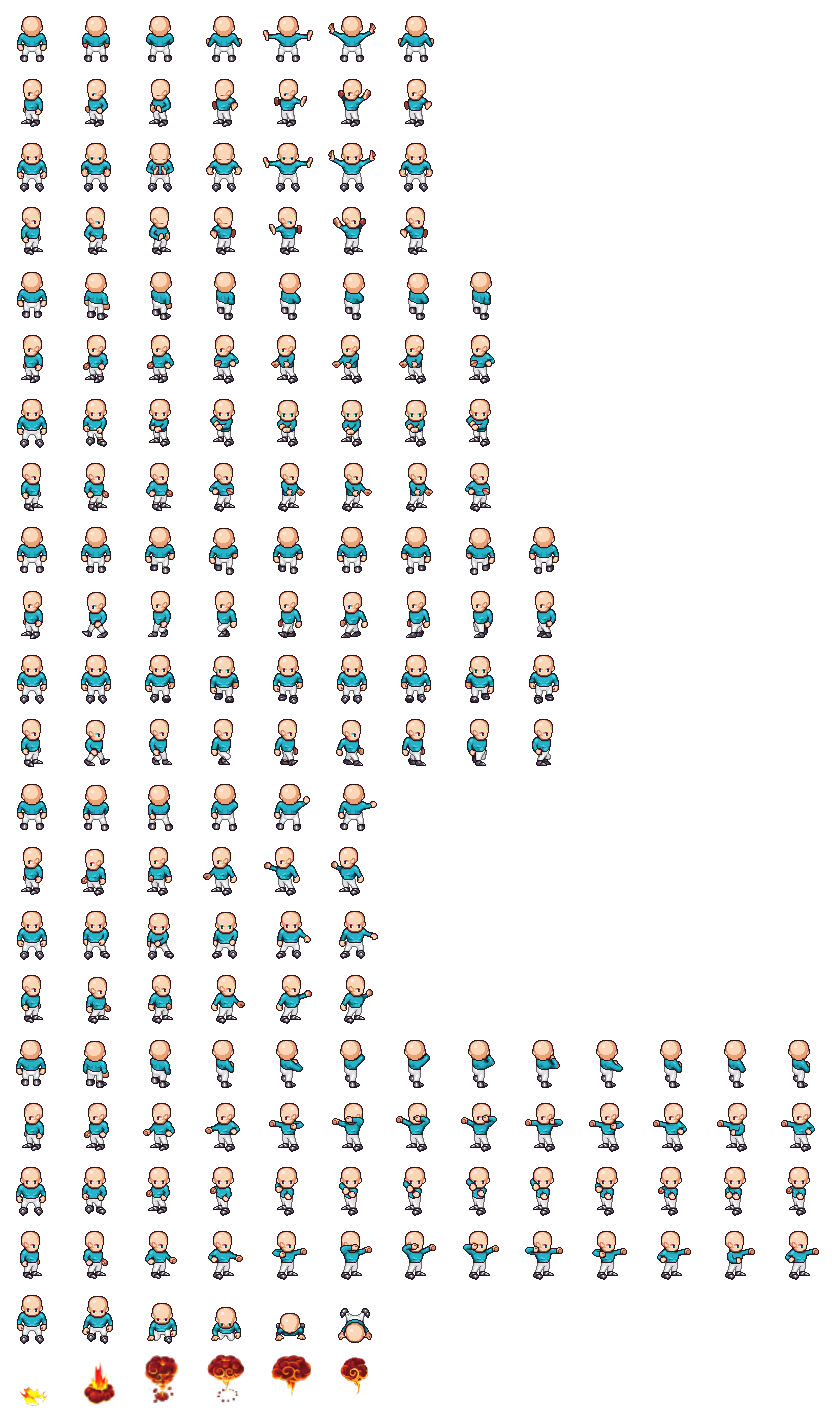
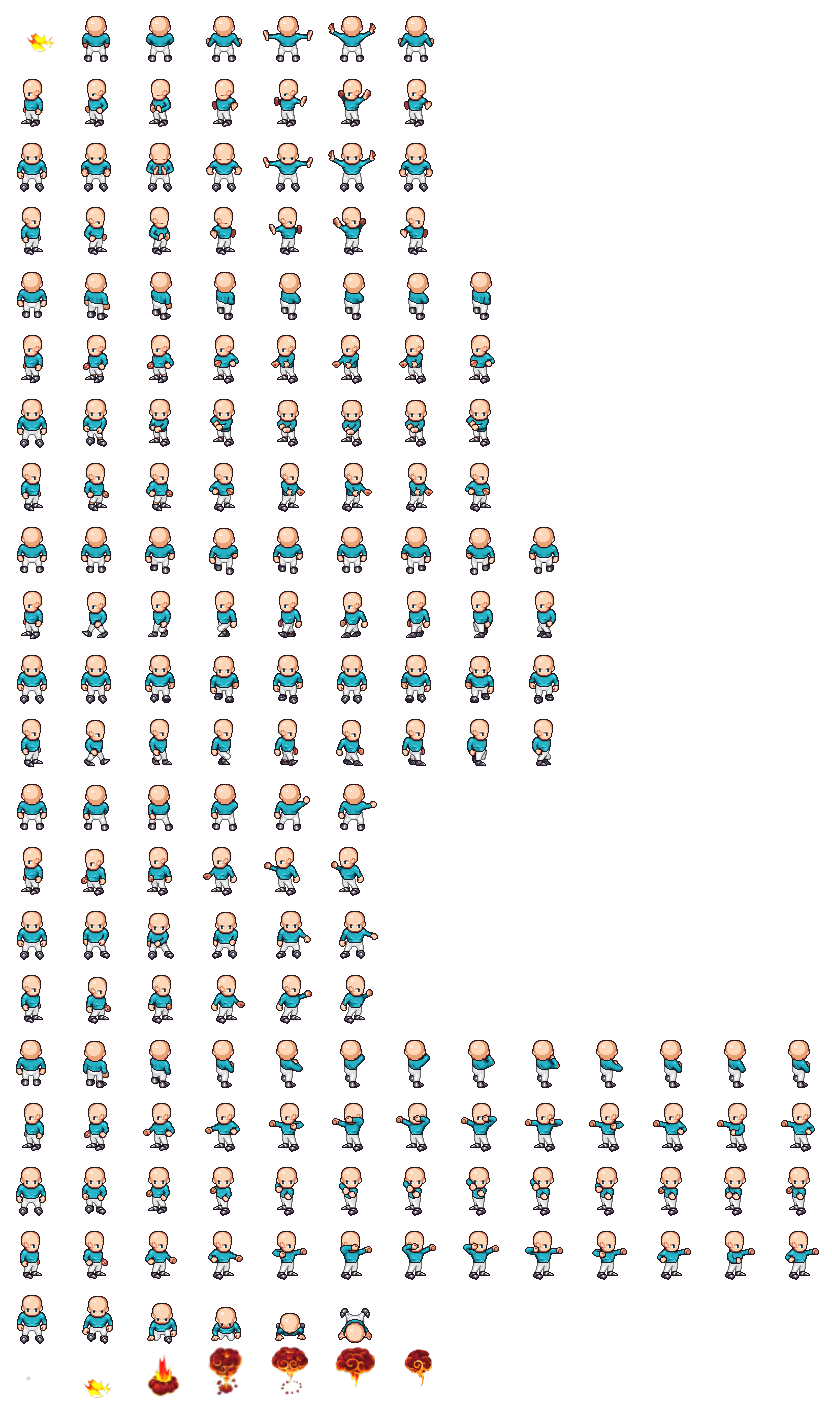
Changement FINAL GGGGGG

diff --git a/src/main/java/fr/icom/info/m1/balleauprisonnier_mvn/Field.java b/src/main/java/fr/icom/info/m1/balleauprisonnier_mvn/Field.java
@@ -94,14 +94,14 @@ public class Field extends Canvas {
 
 				gestionCollision(myBall);
 
-				if(team1.players.get(0).vie <= 0 || team2.players.get(0).vie <= 0){
+				if(team1.players.get(0).vie <= 0){
 					this.stop();
-					System.out.println("l'équipe 2 à gagné (Vive les bleu ! )");
+					System.out.println("l'Equipe 2 a gagne (Vive les bleus ! )");
 					App.stopApp();
 				}
 				if(team2.players.get(0).vie <= 0){
 					this.stop();
-					System.out.println("l'équipe 1 à gagné (Les rouge ne perdent jamais ! )");
+					System.out.println("l'Equipe 1 a gagne (Les rouges ne perdent jamais ! )");
 					App.stopApp();
 				}
 
@@ -123,6 +123,7 @@ public class Field extends Canvas {
 			return new ArrayList<>();
 		}
 	}
+
 
 	public List<LabelGestion> getLabels() {
 		return afficheur.labels;
@@ -179,16 +180,16 @@ public class Field extends Canvas {
 		int vieBasePlayer = 3;
 
 		team1.players.add(new Player(gc, colorMap[0], width/2, height-100,null,vieBasePlayer,team1));
-		team1.players.add(new IA(gc, colorMap[0], (width / 10), height-100, null,vieBaseBot,team1,width/5 - 40,-10,new RandomDeplacementStrategy(10)));
-		team1.players.add(new IA(gc, colorMap[0], 3*(width/10), height-100, null,vieBaseBot,team1,2 * (width / 5) - 40,(width / 5) - 10,new RandomDeplacementStrategy(10)));
-		team1.players.add(new IA(gc, colorMap[0], 7*(width/10), height-100, null,vieBaseBot,team1,4 * (width / 5) - 40,3 * (width / 5) - 10,new RandomDeplacementStrategy(10)));
-		team1.players.add(new IA(gc, colorMap[0], 9*(width/10), height-100, null,vieBaseBot,team1,5 * (width / 5) - 40,4 * (width / 5) - 10,new RandomDeplacementStrategy(10)));
+		team1.players.add(new IA(gc, colorMap[0], (width / 10), height-100, null,vieBaseBot,team1,width/5 - 40,-10,new RandomDeplacementStrategy(50)));
+		team1.players.add(new IA(gc, colorMap[0], 3*(width/10), height-100, null,vieBaseBot,team1,2 * (width / 5) - 40,(width / 5) - 10,new RandomDeplacementStrategy(50)));
+		team1.players.add(new IA(gc, colorMap[0], 7*(width/10), height-100, null,vieBaseBot,team1,4 * (width / 5) - 40,3 * (width / 5) - 10,new RandomDeplacementStrategy(50)));
+		team1.players.add(new IA(gc, colorMap[0], 9*(width/10), height-100, null,vieBaseBot,team1,5 * (width / 5) - 40,4 * (width / 5) - 10,new RandomDeplacementStrategy(50)));
 
 		team2.players.add(new Player(gc, colorMap[1], width/2, 20, myBall,vieBasePlayer,team2));
-		team2.players.add(new IA(gc, colorMap[1], 1*(width/10), 20, null,vieBaseBot,team2,width/5 - 40,-10,new RandomDeplacementStrategy(10)));
-		team2.players.add(new IA(gc, colorMap[1], 3*(width/10), 20, null,vieBaseBot,team2,2 * (width / 5) - 40,(width / 5) - 10,new RandomDeplacementStrategy(10)));
-		team2.players.add(new IA(gc, colorMap[1], 7*(width/10), 20, null,vieBaseBot,team2,4 * (width / 5) - 40,3 * (width / 5) - 10,new RandomDeplacementStrategy(10)));
-		team2.players.add(new IA(gc, colorMap[1], 9*(width/10), 20, null,vieBaseBot,team2,5 * (width / 5) - 40,4 * (width / 5) - 10,new RandomDeplacementStrategy(10)));
+		team2.players.add(new IA(gc, colorMap[1], 1*(width/10), 20, null,vieBaseBot,team2,width/5 - 40,-10,new RandomDeplacementStrategy(50)));
+		team2.players.add(new IA(gc, colorMap[1], 3*(width/10), 20, null,vieBaseBot,team2,2 * (width / 5) - 40,(width / 5) - 10,new RandomDeplacementStrategy(50)));
+		team2.players.add(new IA(gc, colorMap[1], 7*(width/10), 20, null,vieBaseBot,team2,4 * (width / 5) - 40,3 * (width / 5) - 10,new RandomDeplacementStrategy(50)));
+		team2.players.add(new IA(gc, colorMap[1], 9*(width/10), 20, null,vieBaseBot,team2,5 * (width / 5) - 40,4 * (width / 5) - 10,new RandomDeplacementStrategy(50)));
 	}
 
 

diff --git a/src/main/java/fr/icom/info/m1/balleauprisonnier_mvn/App.java b/src/main/java/fr/icom/info/m1/balleauprisonnier_mvn/App.java
@@ -3,7 +3,6 @@ import javafx.application.Application;
 import javafx.scene.Group;
 import javafx.scene.Scene;
 import javafx.scene.control.Button;
-import javafx.scene.control.Label;
 import javafx.scene.image.ImageView;
 import javafx.stage.Stage;
 import javafx.scene.layout.*;
@@ -48,6 +47,18 @@ public class App extends Application
 		root.getChildren().add(gameField.getJoueurs(2).get(3).sprite);
 		root.getChildren().add(gameField.getJoueurs(1).get(4).sprite);
 		root.getChildren().add(gameField.getJoueurs(2).get(4).sprite);
+
+		root.getChildren().add(gameField.getJoueurs(1).get(0).spriteExplo);
+		root.getChildren().add(gameField.getJoueurs(2).get(0).spriteExplo);
+		root.getChildren().add(gameField.getJoueurs(1).get(1).spriteExplo);
+		root.getChildren().add(gameField.getJoueurs(2).get(1).spriteExplo);
+		root.getChildren().add(gameField.getJoueurs(1).get(2).spriteExplo);
+		root.getChildren().add(gameField.getJoueurs(2).get(2).spriteExplo);
+		root.getChildren().add(gameField.getJoueurs(1).get(3).spriteExplo);
+		root.getChildren().add(gameField.getJoueurs(2).get(3).spriteExplo);
+		root.getChildren().add(gameField.getJoueurs(1).get(4).spriteExplo);
+		root.getChildren().add(gameField.getJoueurs(2).get(4).spriteExplo);
+
 		/*
 		for (Button button:gameField.getBoutons()){
 			root.getChildren().add(button);

diff --git a/src/main/java/fr/icom/info/m1/balleauprisonnier_mvn/Player.java b/src/main/java/fr/icom/info/m1/balleauprisonnier_mvn/Player.java
@@ -22,12 +22,15 @@ public class Player
 	protected DeplacementStrategy deplacementStrategy;
 	String playerColor;
 
+
 	// On une image globale du joueur
 	Image directionArrow;
 	protected Team team;
 	int vie;
 	Ball myBall;
 	Sprite sprite;
+	Sprite spriteExplo;
+	double wait =0;
 	ImageView playerDirectionArrow;
 
 	GraphicsContext graphicsContext;
@@ -76,6 +79,9 @@ public class Player
 		sprite.setX(x);
 		sprite.setY(y);
 
+		Image imageExplo = new Image("assets/PlayerBlue.png");
+		spriteExplo = new Sprite(imageExplo, 0,0, Duration.seconds(0.1), this.team.getName());
+		spriteExplo.setX(-1000);
 		this.vitesse = 1;
 		this.step = 3;
 		myBall = ball;
@@ -131,8 +137,10 @@ public class Player
 	void lostVie(int vie){
 		this.vie -= vie;
 		if (this.vie <= 0){
+			spriteExplo.setX(this.x);
+			spriteExplo.setY(this.y);
+			spriteExplo.playExplosion();
 			this.x = 1000;
-			spriteAnimate();
 		}
 	}
 
@@ -185,7 +193,6 @@ public class Player
 			}
 		}
 	}
-
 	void spriteAnimate(){
 		if(!sprite.isRunning) {sprite.playContinuously();}
 		sprite.setX(x);

diff --git a/src/main/java/fr/icom/info/m1/balleauprisonnier_mvn/Sprite.java b/src/main/java/fr/icom/info/m1/balleauprisonnier_mvn/Sprite.java
@@ -99,13 +99,15 @@ class Sprite extends ImageView {
         timeline.stop();
         timeline.playFromStart();
     }
-    public void playDeath() {
+
+    public void playExplosion() {
         isRunning = true;
         frameCounter.set(0);
         timeline = deathTimeline;
-        timeline.setCycleCount(Timeline.INDEFINITE);
+        timeline.setCycleCount(6);
         timeline.stop();
         timeline.playFromStart();
+
     }
 
     public void playShoot(){

diff --git a/src/main/java/fr/icom/info/m1/balleauprisonnier_mvn/BabyFootDeplacementStrategy.java b/src/main/java/fr/icom/info/m1/balleauprisonnier_mvn/BabyFootDeplacementStrategy.java
@@ -3,7 +3,8 @@ package fr.icom.info.m1.balleauprisonnier_mvn;
 public class BabyFootDeplacementStrategy implements DeplacementStrategy{
     public void deplacementBot(IA bot){
         double difference = bot.team.players.get(0).xInit - bot.xInit;
-        if (bot.vie!=0) {
+        if (bot.vie>0) {
+            System.out.println("la HICHEM");
             bot.x = bot.team.players.get(0).x - difference;
             bot.spriteAnimate();
         }

diff --git a/src/main/java/fr/icom/info/m1/balleauprisonnier_mvn/DefenseState.java b/src/main/java/fr/icom/info/m1/balleauprisonnier_mvn/DefenseState.java
@@ -22,7 +22,6 @@ public class DefenseState implements State{
             player.initBall(myBall);
         }
         else {
-            player.sprite.playDeath();
             this.changeState(myBall);
         }
         team2.state.changeState(myBall);
